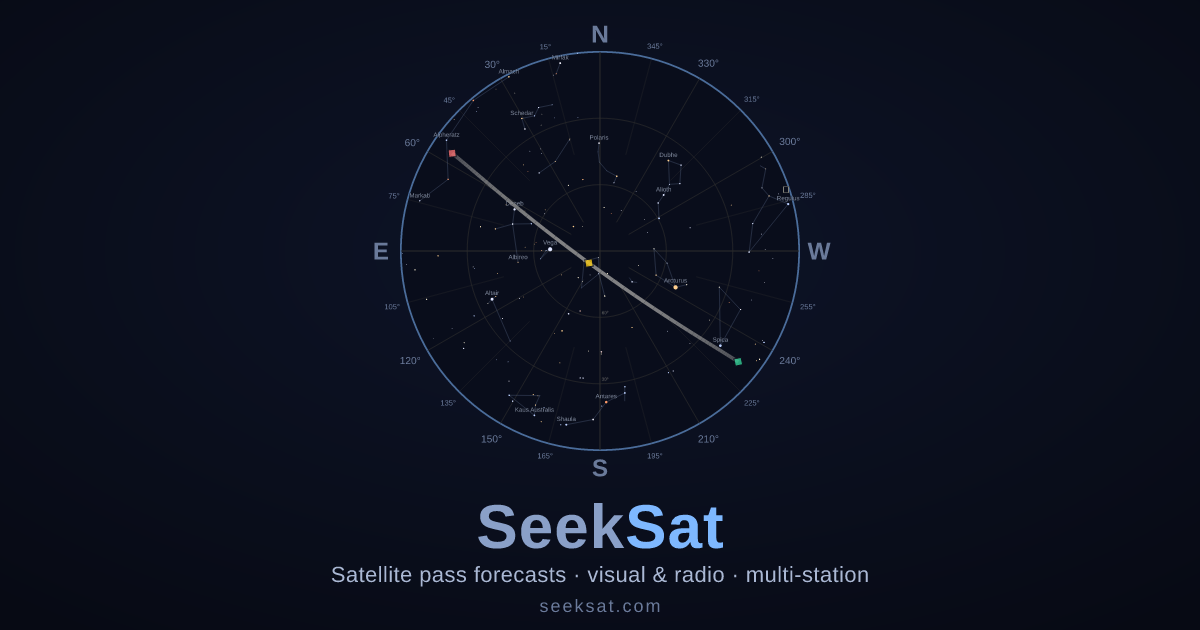
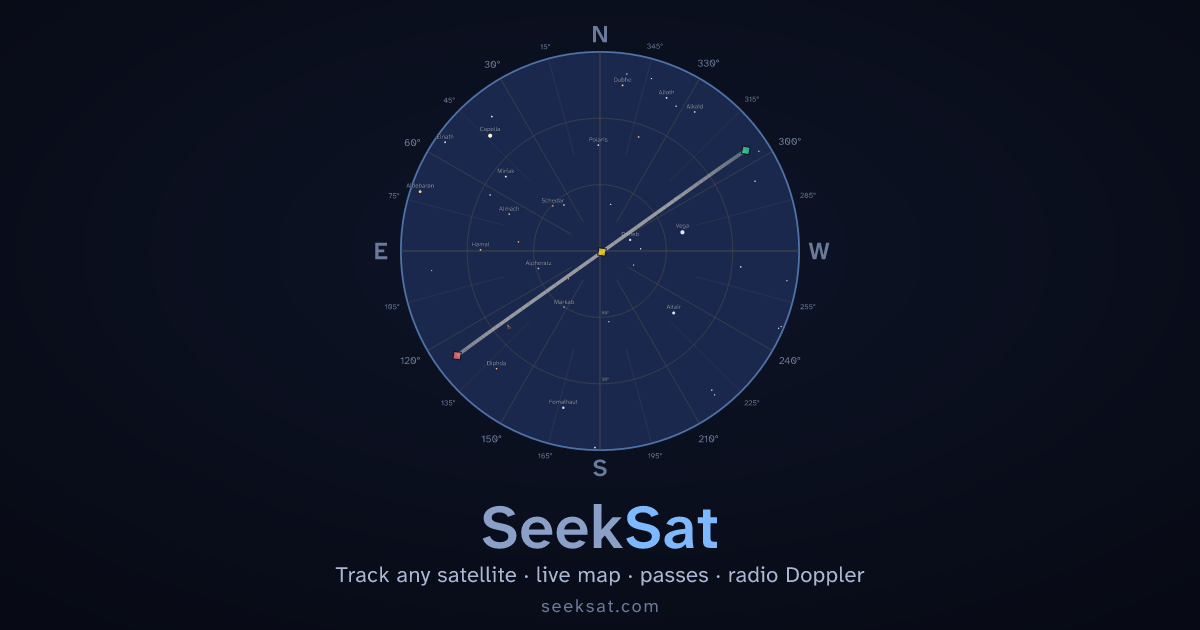
docs: Site title, description, share image and llms.txt for the any-satellite tracker

Changed region(s): [[0.3083, 0.0603, 0.6783, 0.7238], [0.2775, 0.9048, 0.74, 0.9952], [0.4008, 0.7841, 0.6167, 0.8746]]

diff --git a/app/layout.tsx b/app/layout.tsx
@@ -39,14 +39,14 @@ const atkinsonExt = localFont({
 });
 
 const SITE_NAME = "SeekSat";
-// SEO title: ~52 chars (target 50-60) so search results don't truncate
+// SEO title: ~57 chars (target 50-60) so search results don't truncate
 // and the page reads as more than a bare brand name. SITE_NAME stays the
 // short brand for og:site_name, the title template, and applicationName.
-const SITE_TITLE = "SeekSat - Satellite & ISS Pass Forecasts for Any Sky";
-// Meta description: ~146 chars (target 110-160). The longer marketing
+const SITE_TITLE = "SeekSat - Track Any Satellite: Live Map, Passes & Doppler";
+// Meta description: ~139 chars (target 110-160). The longer marketing
 // blurb was 198 chars and got truncated in results.
 const SITE_DESCRIPTION =
-  "Track any satellite and find its passes from where you are, for radio or watching, with honest live numbers and polar sky charts.";
+  "Track any satellite live and see when it passes over you: sky charts for watching, Doppler and pointing charts for radio. Free, no sign-up.";
 
 export const metadata: Metadata = {
   metadataBase: new URL(SITE_URL),
@@ -57,10 +57,10 @@ export const metadata: Metadata = {
   description: SITE_DESCRIPTION,
   applicationName: SITE_NAME,
   keywords: [
-    "satellite tracking", "ISS pass", "satellite forecast",
+    "satellite tracking", "satellite tracker", "live satellite map", "ISS pass", "satellite forecast",
     "satellite pass", "ham radio satellite", "amateur radio satellite",
     "visual satellite", "ground station", "polar plot", "sky chart",
-    "satellite visibility",
+    "satellite visibility", "NORAD", "Doppler", "geostationary",
   ],
   authors: [{ name: SITE_NAME }],
   // Canonical link element - points search engines at the apex URL
@@ -73,9 +73,8 @@ export const metadata: Metadata = {
     description: SITE_DESCRIPTION,
     url: "/",
     locale: "en_US",
-    // /og.png is a 1200×630 image that doesn't exist yet - drop one
-    // in public/og.png to populate. Until it exists, social previews
-    // fall back to whatever the platform scrapes from the page.
+    // /og.png: the 1200×630 default card, written by
+    // scripts/build-og-image.mjs (satellite pages get their own, /api/og).
     images: [{
       url: "/og.png",
       width: 1200,
